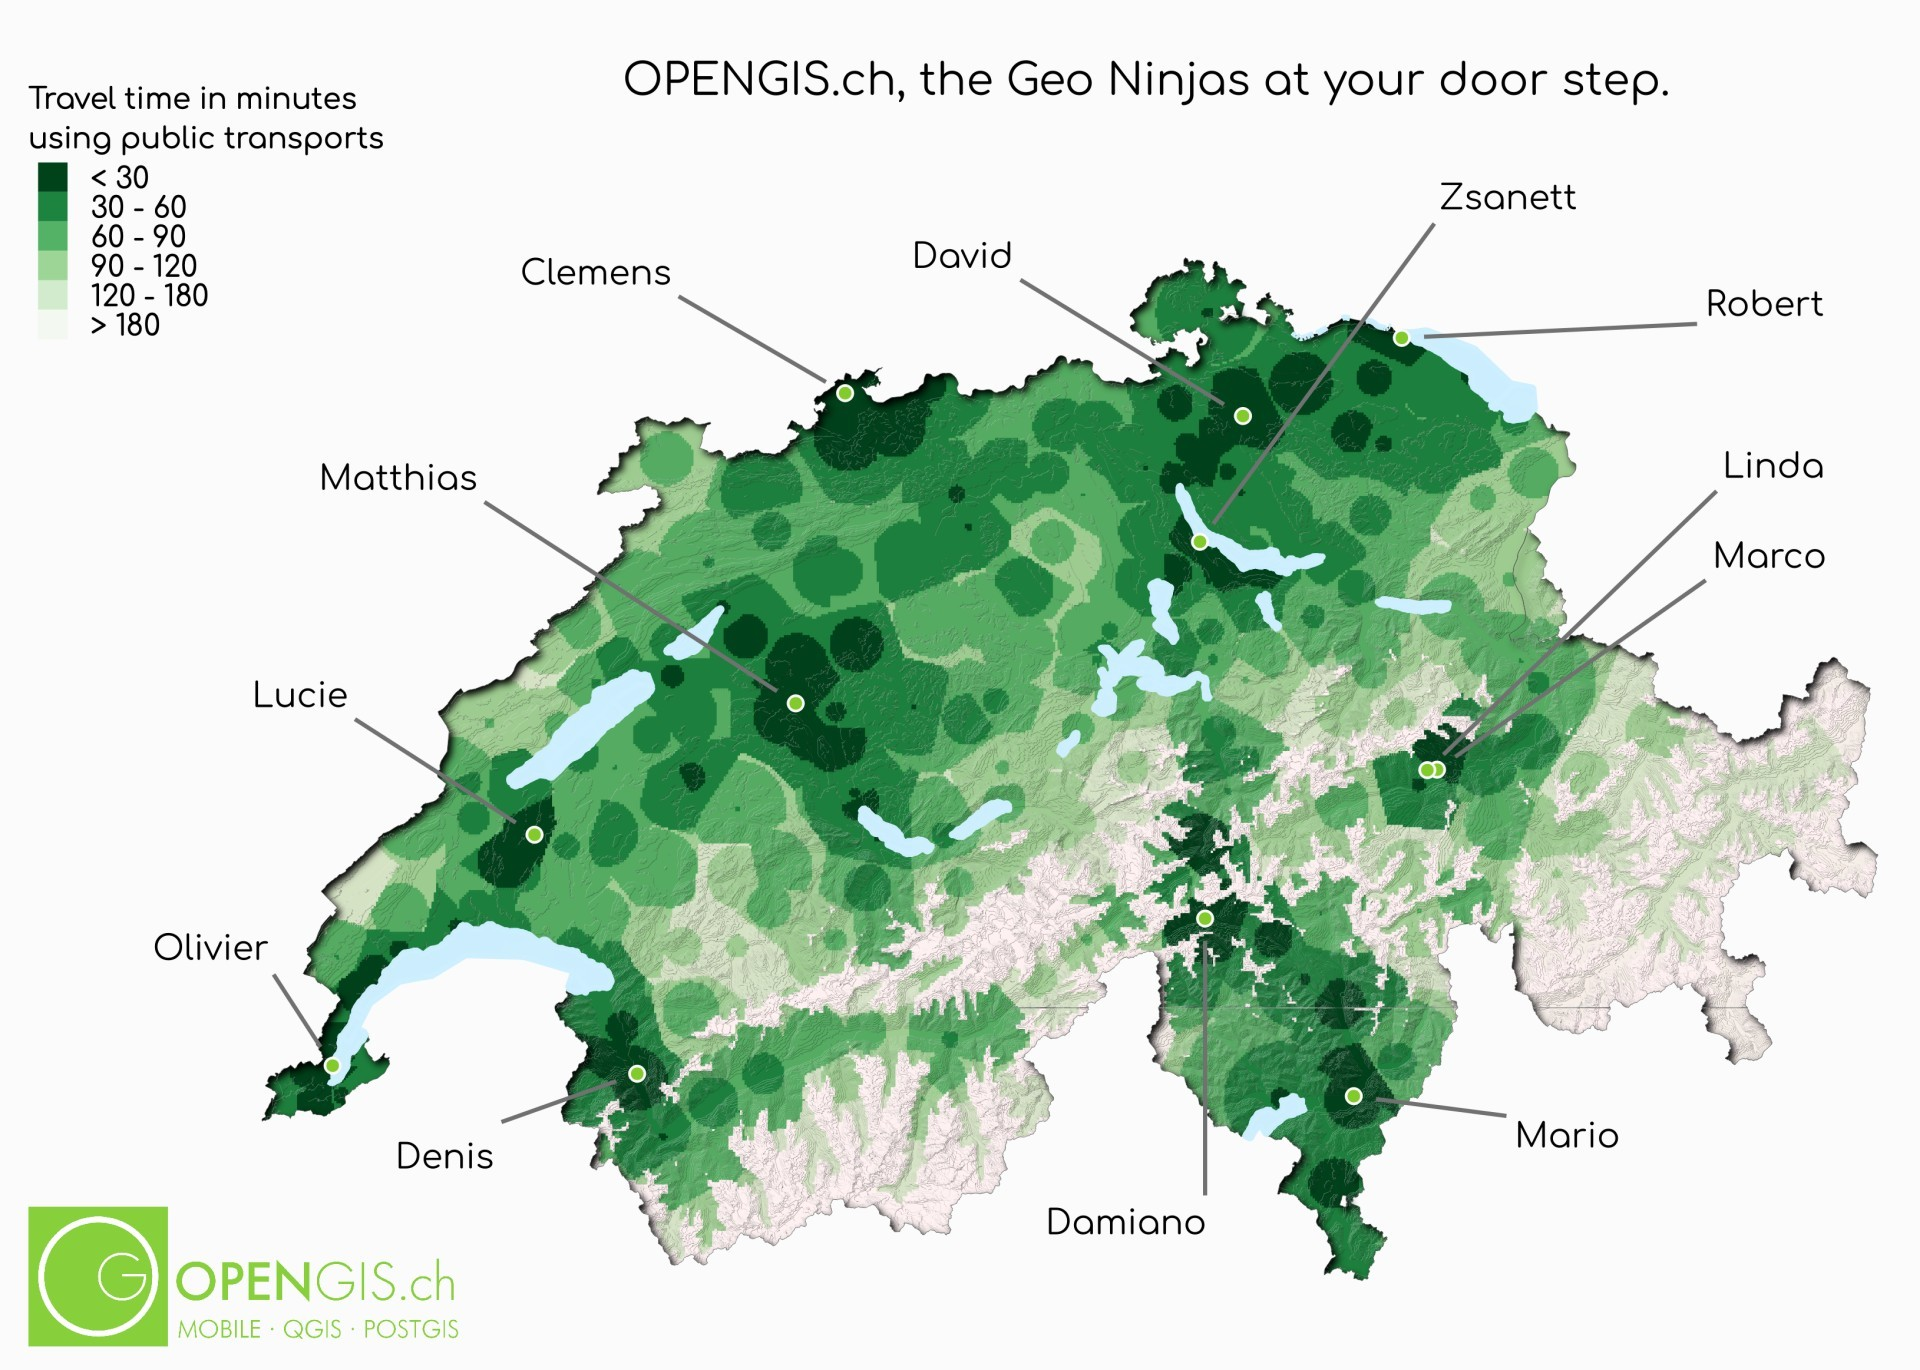
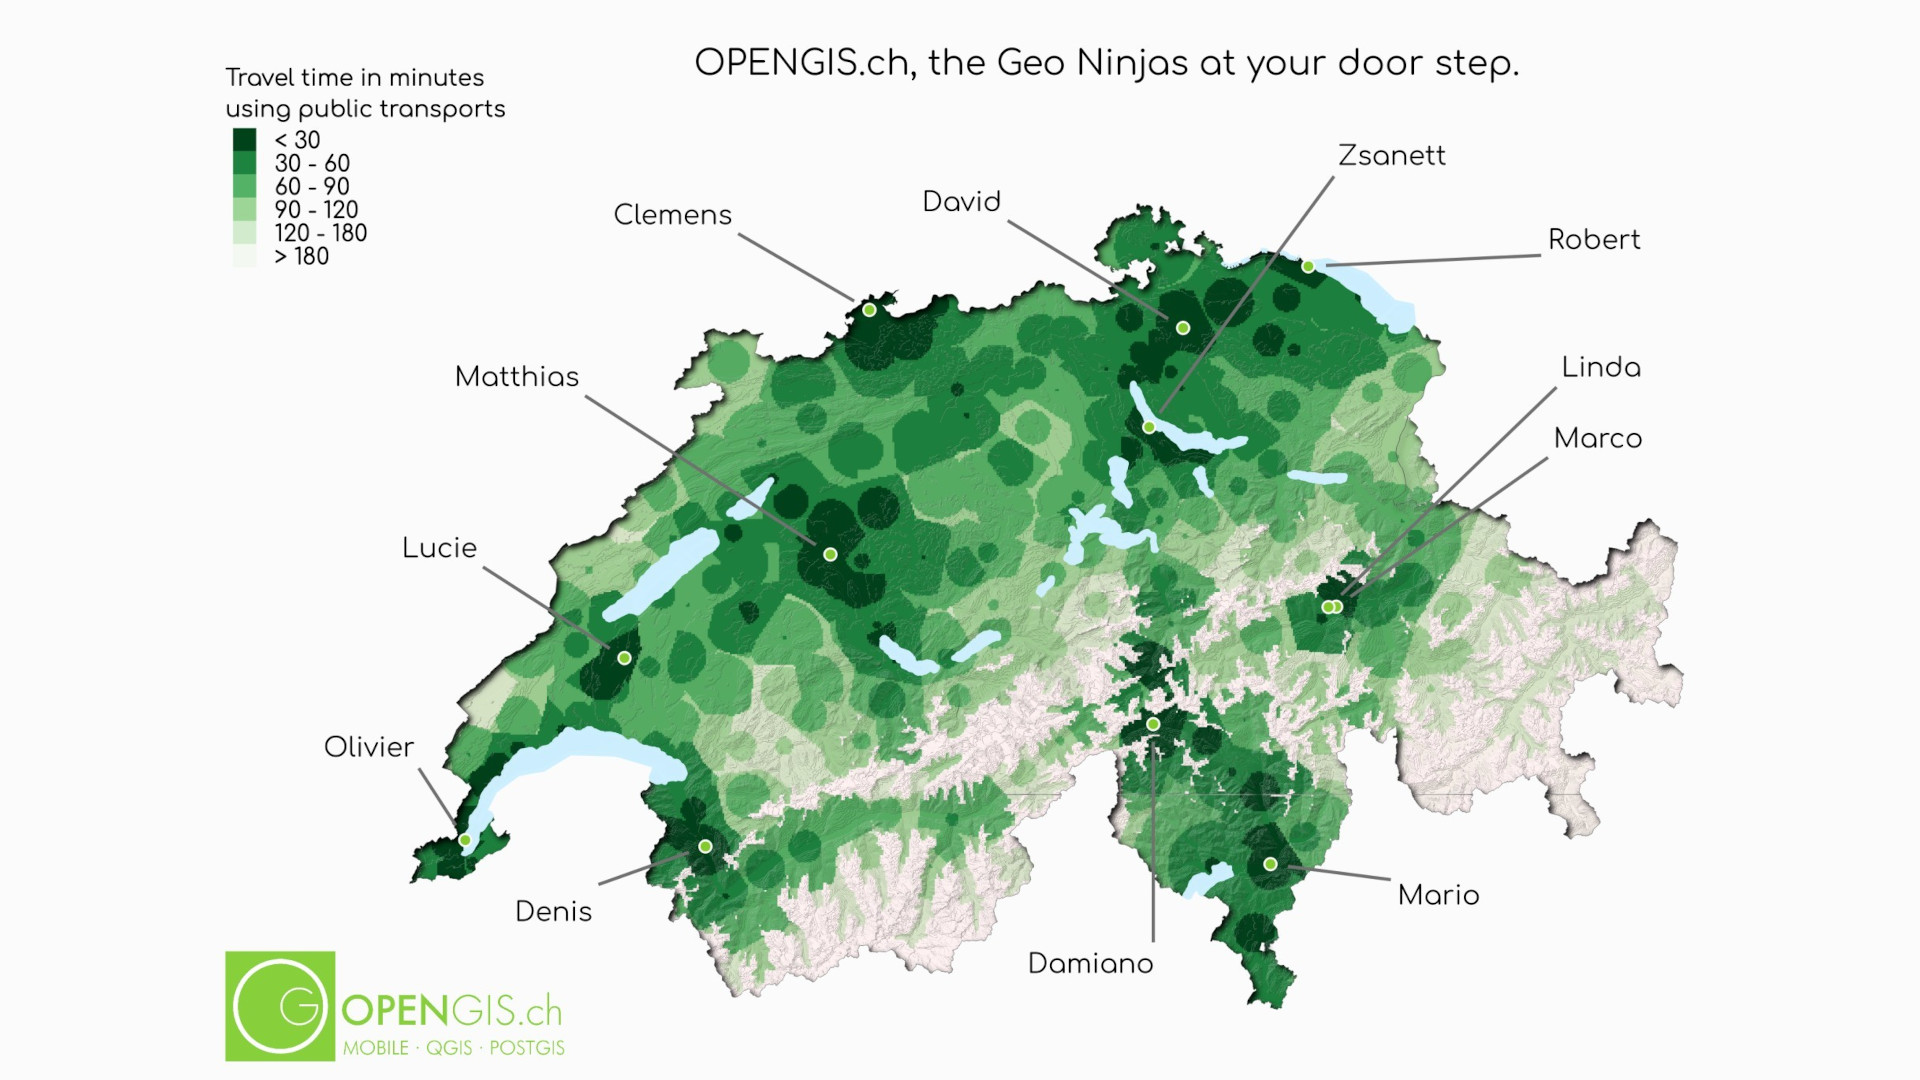
update location map

diff --git a/about-us/intro_short.html b/about-us/intro_short.html
@@ -11,9 +11,9 @@
     <br/> <br/>
      <em>Open source Geo-spatial Experts at your doorsteps in your language</em>
 </div>
-<div class='no_repeat'><img src="../images/copyrighted/social_distancing.png"/>
-<br/> <br/>  <br/>  <br/> <br/> <br/><br/> <br/>We are a <em>dynamic</em> group of <em>developers</em> and <em>consultants</em> expert in OS geo technologies</em>
+<div><img src="../images/copyrighted/locations.png"/><br/><em>Where are we?</em><br/><br/>
 </div>
+
 <div><em>What do we do?</em>
 <ul>
 <li><em>QGIS</em> → Core developers, PSC Chair</li>

diff --git a/about-us/intro.html b/about-us/intro.html
@@ -14,7 +14,7 @@
 <div class='no_repeat'><img src="../images/copyrighted/social_distancing.png"/>
 <br/> <br/>  <br/>  <br/> <br/> <br/><br/> <br/>We are a <em>dynamic</em> group of <em>developers</em> and <em>consultants</em> expert in Open Source geo technologies</em>
 </div>
-<div><img src="../images/copyrighted/HOW-FAR_web.jpg"/><br/><em>Where are we?</em><br/><br/>
+<div><img src="../images/copyrighted/locations.png"/><br/><em>Where are we?</em><br/><br/>
 </div>
 <div><em>What do we do?</em>
 <ul>
